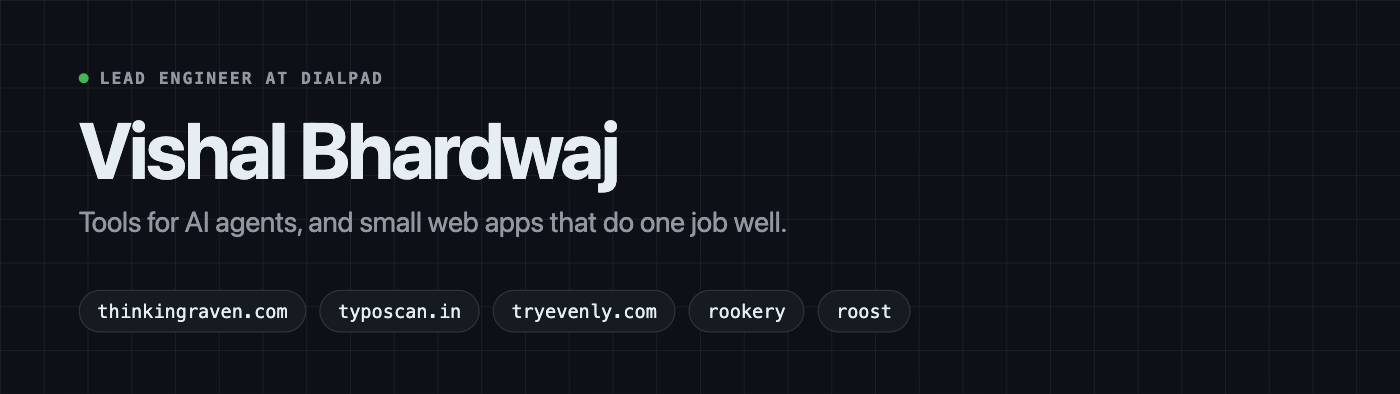
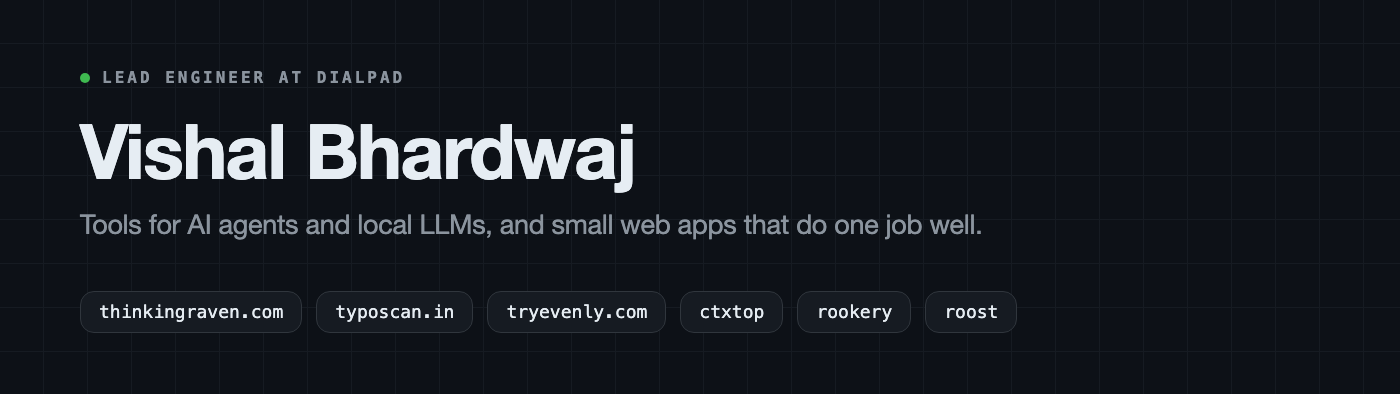
README: add ctxtop, group tools and web apps
Open-source tools are split into local LLMs (ctxtop) and AI agents
(Thinking Raven's rookery and roost); web apps get their own section.
Banner subtitle and chips include ctxtop.

diff --git a/README.md b/README.md
@@ -1,20 +1,25 @@
 <picture>
   <source media="(prefers-color-scheme: dark)" srcset="assets/banner-dark.png">
-  <img src="assets/banner-light.png" alt="Vishal Bhardwaj, Lead Engineer at Dialpad: tools for AI agents, and small web apps that do one job well">
+  <img src="assets/banner-light.png" alt="Vishal Bhardwaj, Lead Engineer at Dialpad: tools for AI agents and local LLMs, and small web apps that do one job well">
 </picture>
 
-Lead Engineer at [Dialpad](https://www.dialpad.com) (work account: [@vishaldialpad](https://github.com/vishaldialpad)). In my free time I build open-source tools for AI agents at [Thinking Raven](https://thinkingraven.com), and small web apps that do one job well.
+Lead Engineer at [Dialpad](https://www.dialpad.com) (work account: [@vishaldialpad](https://github.com/vishaldialpad)). In my free time I build open-source tools for AI agents and local LLMs, and small web apps that do one job well.
 
-#### Side projects
+#### Open-source tools
 
-- [**thinkingraven.com**](https://thinkingraven.com): sharpen, measure and trust what your software factory ships.
-- [**typoscan.in**](https://www.typoscan.in): find the lookalike domains your customers might mistype, and check which ones are taken.
-- [**tryevenly.com**](https://tryevenly.com): split a bill and everyone pays their own share by UPI. No app, no sign-up.
-- [**tiny-chat**](https://tiny-chat-five.vercel.app): a local-first Gemini chat. Your history never leaves the browser. ([code](https://github.com/iBvishal/tiny-chat))
+**For local LLMs**
 
-#### Open source
+- [**ctxtop**](https://github.com/iBvishal/ctxtop): `top` for local LLMs. Live speed, context fill and memory for every model in llama.cpp, Ollama and LM Studio, and what to change when something's off.<br>`brew install --cask iBvishal/tap/ctxtop`
+
+**For AI agents**, at [Thinking Raven](https://thinkingraven.com): sharpen, measure and trust what your software factory ships.
 
 - [**rookery**](https://github.com/thinkingraven/rookery) · [npm](https://www.npmjs.com/package/@thinkingraven/rookery): find every agent skill in your repos, spot the duplicates and catch the risky ones.<br>`npx @thinkingraven/rookery scan .`
 - [**roost**](https://github.com/thinkingraven/roost) · [npm](https://www.npmjs.com/package/@thinkingraven/roost): see which skills, subagents and MCP servers your agents actually use.<br>`npx @thinkingraven/roost usage`
 
-TypeScript · Next.js · React · Node · Python · [LinkedIn](https://www.linkedin.com/in/vishal-bhardwaj-b72702114/)
+#### Web apps
+
+- [**typoscan.in**](https://www.typoscan.in): find the lookalike domains your customers might mistype, and check which ones are taken.
+- [**tryevenly.com**](https://tryevenly.com): split a bill and everyone pays their own share by UPI. No app, no sign-up.
+- [**tiny-chat**](https://tiny-chat-five.vercel.app): a local-first Gemini chat. Your history never leaves the browser. ([code](https://github.com/iBvishal/tiny-chat))
+
+Go · TypeScript · Next.js · React · Node · Python · [LinkedIn](https://www.linkedin.com/in/vishal-bhardwaj-b72702114/)
